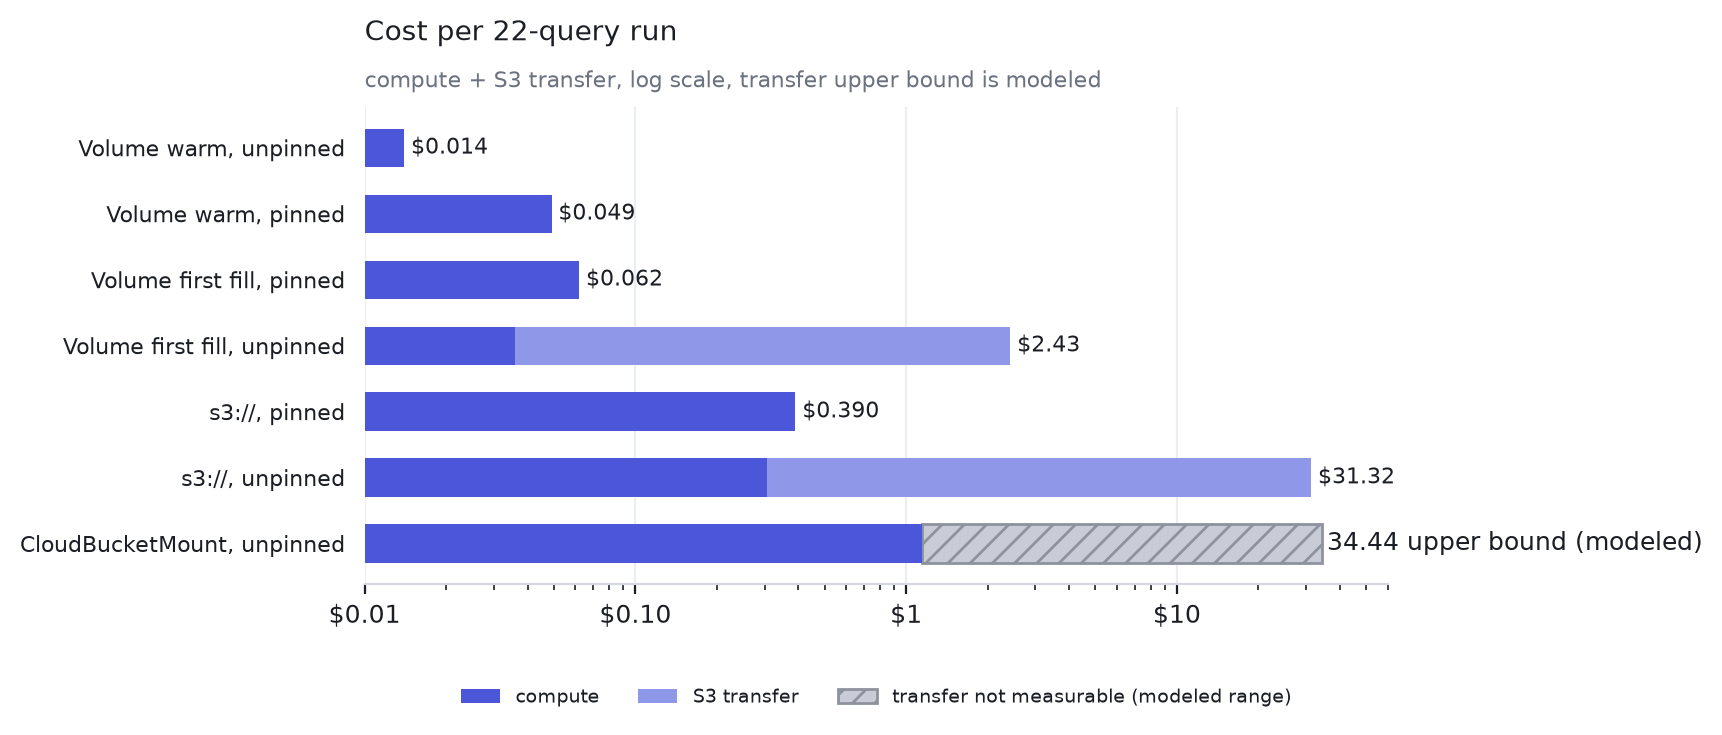
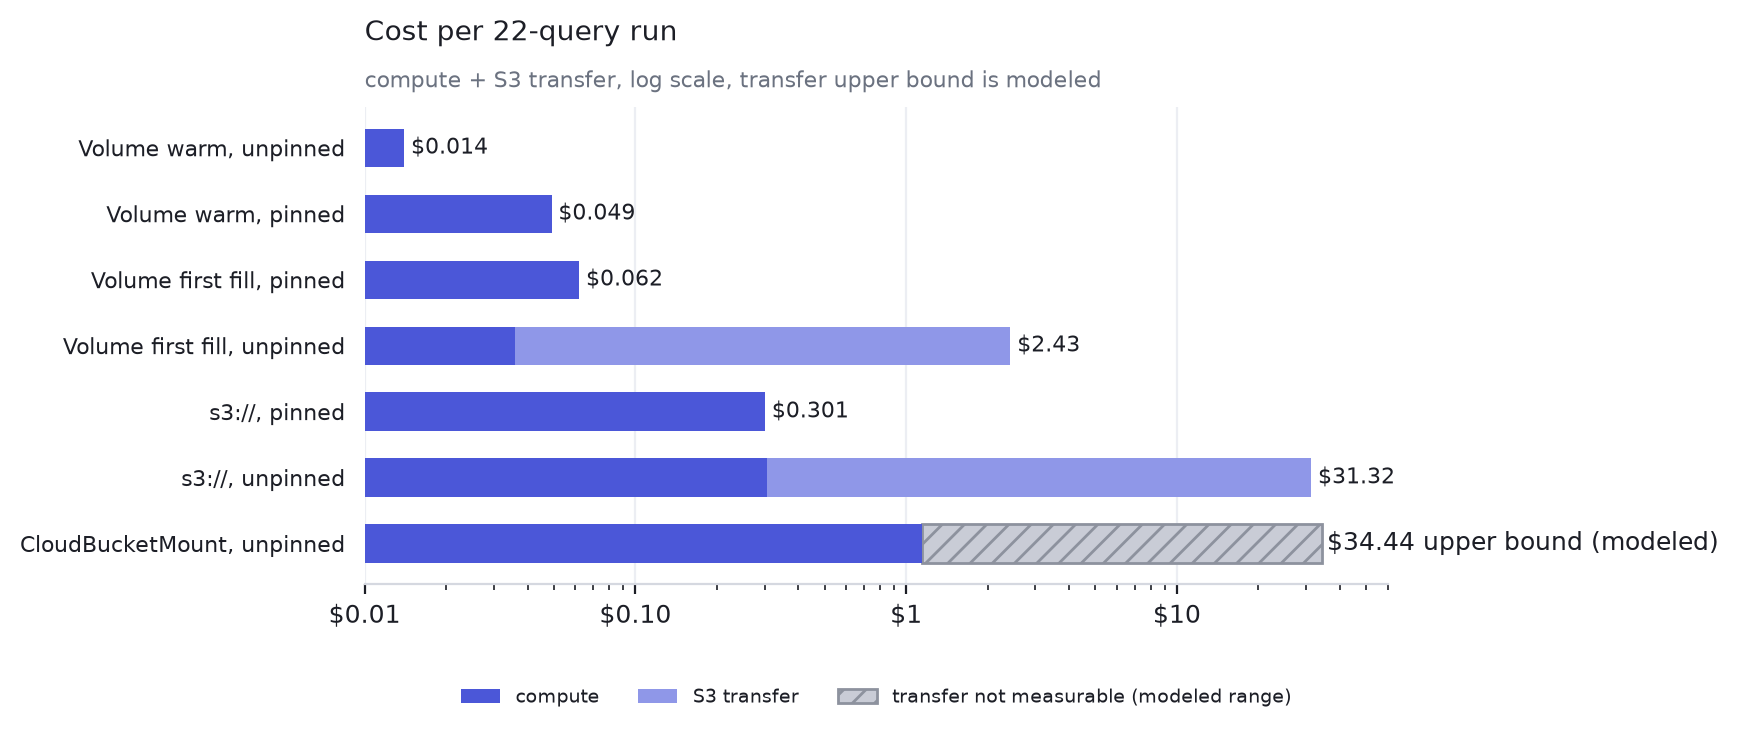
Update pinned S3 benchmark results

diff --git a/docs/make_charts.py b/docs/make_charts.py
@@ -46,7 +46,7 @@ COST_ROWS = (
     ("Volume warm, pinned", 0.049, 0.0),
     ("Volume first fill, pinned", 0.062, 0.0),
     ("Volume first fill, unpinned", 0.036, 2.39),
-    ("s3://, pinned", 0.390, 0.0),
+    ("s3://, pinned", 0.301, 0.0),
     ("s3://, unpinned", 0.305, 31.01),
     ("CloudBucketMount, unpinned", 1.14, None),
 )
@@ -66,15 +66,15 @@ INPUT_PATH_SECONDS = {
         19: 3.43, 20: 6.00, 21: 34.16, 22: 2.53,
     },
     "s3:// pinned": {
-        1: 36.00, 2: 5.59, 3: 79.37, 4: 37.61, 5: 63.22, 6: 36.55,
-        7: 69.38, 8: 66.10, 9: 71.43, 10: 68.33, 11: 4.05, 12: 38.34,
-        13: 25.42, 14: 57.64, 15: 45.62, 16: 4.02, 17: 45.29, 18: 53.49,
-        19: 65.02, 20: 61.08, 21: 122.95, 22: 6.56,
+        1: 37.59, 2: 6.18, 3: 88.69, 4: 35.86, 5: 51.77, 6: 30.36,
+        7: 57.34, 8: 55.73, 9: 60.45, 10: 57.47, 11: 3.53, 12: 32.35,
+        13: 21.56, 14: 46.48, 15: 39.94, 16: 3.30, 17: 41.34, 18: 51.07,
+        19: 62.48, 20: 54.37, 21: 122.44, 22: 6.45,
     },
 }
 # fmt: on
 
-EXPECTED_GEOMEANS = (2.28, 4.23, 35.12)
+EXPECTED_GEOMEANS = (2.28, 4.23, 31.76)
 
 
 def chart_title(ax, heading: str, subheading: str) -> None:
@@ -206,7 +206,7 @@ def cost_chart() -> Path:
                 else None,
                 zorder=2,
             )
-            ax.text(34.44 * 1.04, position, "34.44 upper bound (modeled)", va="center")
+            ax.text(34.44 * 1.04, position, "$34.44 upper bound (modeled)", va="center")
         else:
             if transfer:
                 ax.barh(
@@ -249,7 +249,7 @@ def cumulative_cost_chart() -> Path:
     """Compare modeled cost over ten repeated suite runs."""
     runs = list(range(1, 11))
     volume = [0.0130 + run * 0.0138 for run in runs]
-    pinned_s3 = [run * 0.390 for run in runs]
+    pinned_s3 = [run * 0.301 for run in runs]
     unpinned_s3 = [run * 31.32 for run in runs]
 
     fig, ax = plt.subplots(figsize=(6.6, 3.0))

diff --git a/README.md b/README.md
@@ -59,7 +59,7 @@ The 22-query suite, with what it cost:
 | Volume, warm, pinned | 321s | 0 | $0.049 | $0 | **$0.049** |
 | Volume, first fill, pinned | 84s + 315s | 26.5 GB | $0.062 | $0 | **$0.062** |
 | Volume, first fill, unpinned | 253s + 157s | 26.5 GB | $0.036 | $2.39 | **$2.43** |
-| `s3://`, pinned | 2535s | 378.8 GB | $0.390 | $0 | **$0.390** |
+| `s3://`, pinned | 1956s | 351.3 GB | $0.301 | $0 | **$0.301** |
 | `s3://`, unpinned | 3467s | 344.6 GB | $0.305 | $31.01 | **$31.32** |
 | `CloudBucketMount`, unpinned | 12951s | not measurable | $1.14 | modeled | - |
 
@@ -67,8 +67,8 @@ The 22-query suite, with what it cost:
 
 Two separate effects are visible there. Placement decides the transfer column:
 $31.01 becomes $0 for the same 22 queries. The input path decides the time
-column: 2535s reading `s3://` in-region against 157s off a warm Volume, a
-geometric mean of 35.12s against 2.28s per query.
+column: 1956s reading `s3://` in-region against 157s off a warm Volume, a
+geometric mean of 31.76s against 2.28s per query.
 
 ![Query time by input path](docs/input-path.png)
 
@@ -80,7 +80,7 @@ transfer happens at all:
 | SF100, 10 suite runs a month | cost |
 |---|---:|
 | pinned fill once, then unpinned Volume runs | **$0.15** plus $2.22 storage |
-| pinned `s3://`, no cache | **$3.90** |
+| pinned `s3://`, no cache | **$3.01** |
 | unpinned `s3://`, no cache | **$313.20** |
 
 ![Cost of repeated runs](docs/cumulative-cost.png)
@@ -128,9 +128,9 @@ transfer and `c` per second of compute:
   plus storage
 
 Pinning sets `e` to zero and raises `c`. Reuse is what pays for the fill and the
-storage. At SF100 above, the fill costs $0.06 and each suite saves $0.376
+storage. At SF100 above, the fill costs $0.06 and each suite saves $0.287
 against pinned `s3://`, so the copy pays for itself on the first run and the
-$2.22 of monthly storage pays for itself after about six.
+$2.22 of monthly storage pays for itself after about eight.
 
 Cache poorly when each object is read once. A job over the last few minutes of
 trading data, or yesterday's prices, reads a window that was never in the cache
